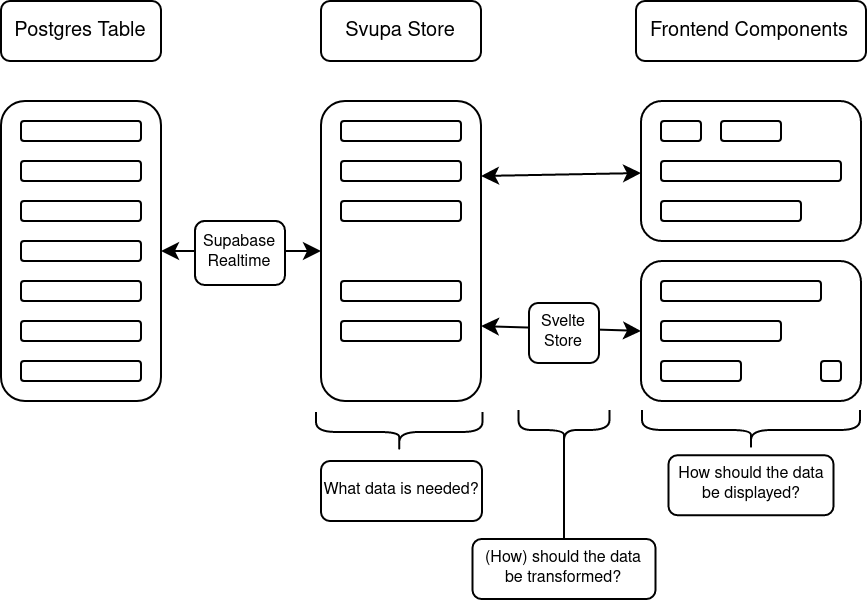
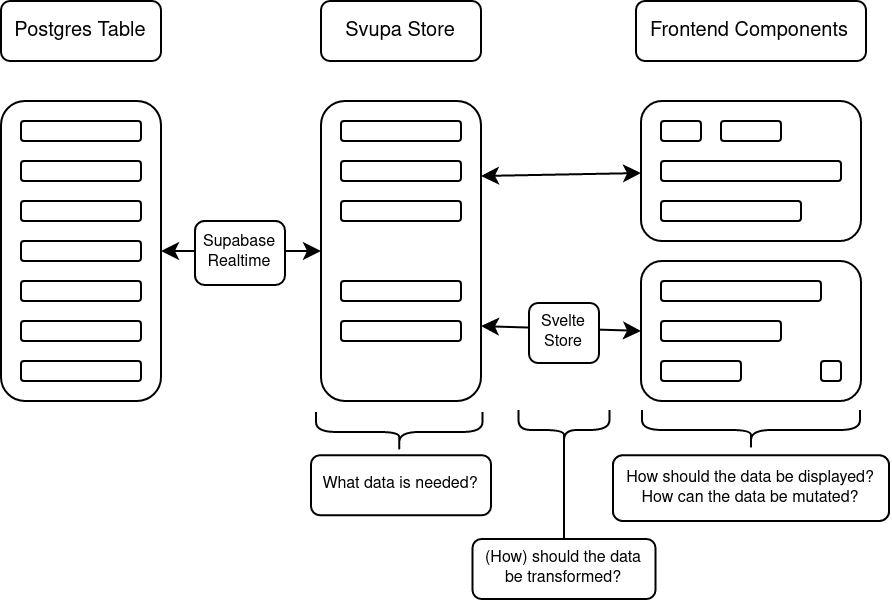
added frameworks image + changed some content on depth page

diff --git a/src/routes/(main)/depth/+page.svelte b/src/routes/(main)/depth/+page.svelte
@@ -3,10 +3,29 @@
   import FeatureItem from "/src/components/FeatureItem.svelte";
   import Title from "/src/components/Title.svelte";
   import Subtitle from "/src/components/Subtitle.svelte";
+  import Markup from "/src/components/Markup.svelte";
 </script>
 
 <div class="flex flex-col items-center justify-center">
-  <Title id="concept">Concept</Title>
+  <Title id="idea">Idea</Title>
+  <Subtitle>I built it, cause' I needed it.</Subtitle>
+  <p class="my-2 w-full px-4 lg:px-0 lg:w-2/3 text-justify">
+    I built Svupa to use it at my startup <a
+      href="https://kmapp.io/"
+      class="underline">kmapp.io</a
+    >. We are building a modern, document-centric knowledge management platform.
+    Building a multi-user web app is not easy, there are a lot of things to
+    consider during development. One of the most important things is the state
+    of the application. The state of the application is what the user sees, and
+    ideally, it should be consistent for all users that are currently viewing
+    the same content. If user A adds a comment, user B should see this comment
+    in realtime. It is absolutely possible to achieve this with Supabase and
+    Svelte, but doing it for many different parts of the application (comments,
+    tags, etc.) requires a lot of boilerplate code. Abstraction is the key to
+    success here, and that is when I came up with the idea for Svupa - an
+    abstraction layer, that makes it easy to build realtime web apps.
+  </p>
+  <!--
   <Subtitle>The Status Quo.</Subtitle>
   <p class="my-2 w-full px-4 lg:px-0 lg:w-2/3 text-justify">
     Almost any modern webapp consists of frontend and backend componets. While
@@ -34,34 +53,42 @@
     would be much better if just the changes were sent, right? Well, that is
     what Supabase Realtime does.
   </p>
-  <Subtitle>Why do we need something else?</Subtitle>
+  <Subtitle>Why do we need something else on top?</Subtitle>
   <p class="my-2 w-full px-4 lg:px-0 lg:w-2/3 text-justify">
-    Okay, so using Supabase Realtime we are able to pull the initial data and
-    then get updates on the data if it changes. But we still need to make our UI
-    respond to these changes (i.e. are updated accordingly). It is not trivial
-    to reflect these changes. Or is it? Reactivity has shaped most of the major
+    Using Supabase Realtime we are able to pull the initial data and then get
+    updates on the data if it changes. But we still need to make our UI respond
+    to these changes (i.e. are updated accordingly). It is not trivial to
+    reflect these changes. Or is it? Reactivity has shaped most of the major
     Javascript frameworks, but, to cite the
     <a
       href="https://vercel.com/docs/beginner-sveltekit/reactivity"
       class="underline">Vercel Tutorial</a
-    >, "Svelte almost feels like magic here". The changes received from the
-    backend can be directly streamed into a Svelte store. Now Svelte can do its
-    thing: Update data that depends on the update (derived stores) and show the
-    results on the UI - at astonishing speed.
+    >, "Svelte almost feels like magic here". Changes received from the backend
+    can be directly "streamed" into a Svelte store. Now Svelte can do its thing:
+    Update data that depends on the update (derived stores) and show the results
+    on the UI - at astonishing speed.
   </p>
+-->
+  <Title id="concept">Concept</Title>
+  <Subtitle>What does it look like?</Subtitle>
   <img src="concept.png" class="max-w-[600px] m-8" />
 
   <p class="my-2 w-full px-4 lg:px-0 lg:w-2/3 text-justify">
-    As a developer, one just just needs to define... <br />
-    what data is needed request()<br />
-
-    If (and how) it needs to be transformed derived()<br />
-    and how the data should be displayed<br />
-    Everything else,
+    As a developer, one just just needs to define what data is needed, if (and
+    how) it needs to be transformed and how the data should be displayed to the
+    user and mutated by the user. Everything else is handled by Svupa. The data
+    changes, the UI updates.
   </p>
 
   <Title id="dependencies">Dependencies</Title>
 
+  <Subtitle>A very opinionated framework.</Subtitle>
+  <p class="my-2 w-full px-4 lg:px-0 lg:w-2/3 text-justify">
+    Svupa is built on top of Svelte and Supabase, which in turn is built on top
+    of Postgres. This makes Svupa a heavily opinionated framework. Below you
+    will see why I chose these dependencies, as well as explanations of how to
+    understand Svupa if you are not familiar with Svelte or Supabase.
+  </p>
   <Subtitle>Svelte Stores, but for the server.</Subtitle>
   <p class="my-2 w-full px-4 lg:px-0 lg:w-2/3 text-justify">
     If you are familiar with Svelte (especially stores and reactivity) you can
@@ -81,7 +108,7 @@
       <FeatureItem
         text="Svelte's reactivity makes it an ideal fit for realtime apps."
       />
-      <FeatureItem text="Svelte makes developing so much more fun." />
+      <!--<FeatureItem text="Svelte makes developing so much more fun." />-->
     </div>
   </div>
 
@@ -105,7 +132,7 @@
       <FeatureItem
         text="The Realtime API is exactly what's needed for a framework like Svupa."
       />
-      <FeatureItem text="Supabase makes developing so much more fun." />
+      <!--<FeatureItem text="Supabase makes developing so much more fun." />-->
     </div>
   </div>
 
@@ -113,8 +140,8 @@
 
   <p class="my-2 w-full px-4 lg:px-0 lg:w-2/3 text-justify">
     There are other great, much more sophisticated and established frameworks
-    that deal with client synchronization. Before you consider using Svupa,
-    check out these frameworks to see if they better fit your usecase.
+    that deal with client synchronization. If you like Svupa, check out these
+    frameworks to see if they fit your usecase.
   </p>
   <div
     class="text-lg grid-cols-1 md:grid-cols-2 grid lg:grid-cols-3 w-full gap-16 my-8"

diff --git a/src/routes/(main)/+page.svelte b/src/routes/(main)/+page.svelte
@@ -28,14 +28,12 @@
       return data;
     });
   }
-  let table = "demo";
   let row_id = false;
   let demoUrl = false;
   let demoUrlOptimistic = false;
   let demoUrlPesimisitic = false;
-  let svupa_client = false;
   onMount(async () => {
-    svupa_client = svupa(supabase, "demo", keys);
+    let svupa_client = svupa(supabase, "demo", keys);
     let int = 1;
     let text = "one";
     let bool = false;
@@ -94,10 +92,11 @@ Settings."
 
 <div class="text-center items-center justify-center flex flex-col w-full">
   <Title id="project">
-    <img src="/icon.png" class="h-32 p-4" />
     <span class="text-[#F19A3E]">Sv</span><span class="text-[#00A063]">upa</span
     >.js</Title
   >
+
+  <img src="/frameworks.png" class="h-16" />
   <Subtitle>
     A <a href="https://svelte.dev/" class="text-[#F19A3E]">Svelte</a>
     +
@@ -282,8 +281,8 @@ Settings."
     available on GitHub), but there is no npm release yet. While the majority of
     features seem to be running stable, it is strongly advised against using
     Svupa for anything other than playing around as of now and the API is very
-    likely going to change (improve) drastically before the first beta release. If you
-    have questions, ideas or feedback, please get in touch.
+    likely going to change (improve) drastically before the first beta release.
+    If you have questions, ideas or feedback, please get in touch.
   </p>
 
   <Subtitle>
@@ -305,10 +304,10 @@ Settings."
     <div class="flex flex-col items-center justify-center">
       <Title id="appendix">Appendix</Title>
       <Subtitle
-        >Wanna know why I created Svupa or why I chose Svelte and Supabase?
-        Read about it.</Subtitle
+        >Wanna know why I created Svupa or why I chose Svelte and Supabase? Read
+        about it.</Subtitle
       >
-      <a href="/depth"> <Button>I would like to know more.</Button></a>
+      <a href="/depth#idea"> <Button>I would like to know more.</Button></a>
     </div>
     <!--
     Therefore, contributions of any kind will only be possible after the

diff --git a/src/components/CopyInput.svelte b/src/components/CopyInput.svelte
@@ -29,7 +29,7 @@
       <img src="/qr.png" class="w-5 h-5 cursor-pointer" />
       {#if text && text.length > 0}
         <div
-          class="p-2 border-gray-200 border-2 rounded-md absolute bottom-2 right-2 bg-white z-50 h-48 w-48 group-hover/qr:flex hidden"
+          class="p-2 border-gray-200 border-2 rounded-md absolute bottom-2 right-2 bg-white z-50 h-48 w-48 group-hover/qr:flex hidden outline outline-[9999px] outline-[rgba(255,255,255,0.5)] dark:outline-[rgba(0,0,0,0.3)]"
         >
           <QRCode value={text} size="172" />
         </div>
